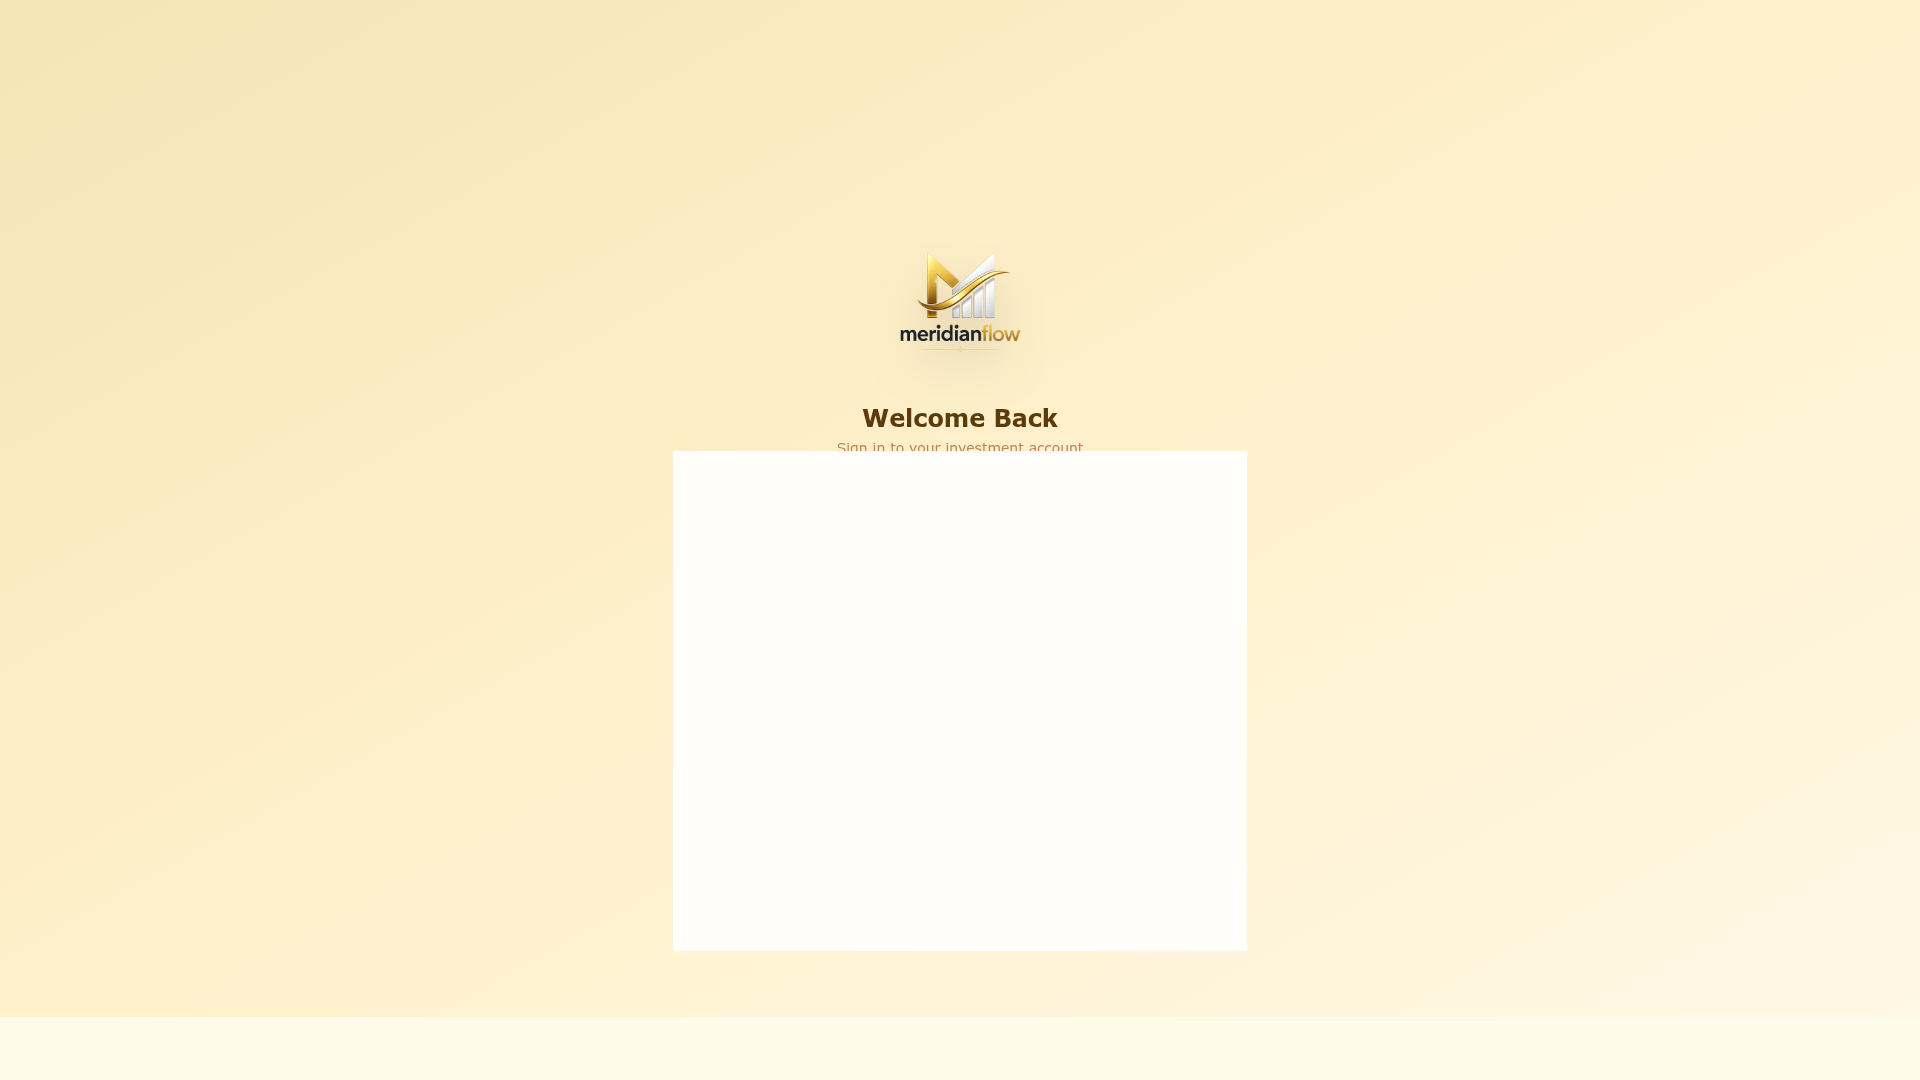
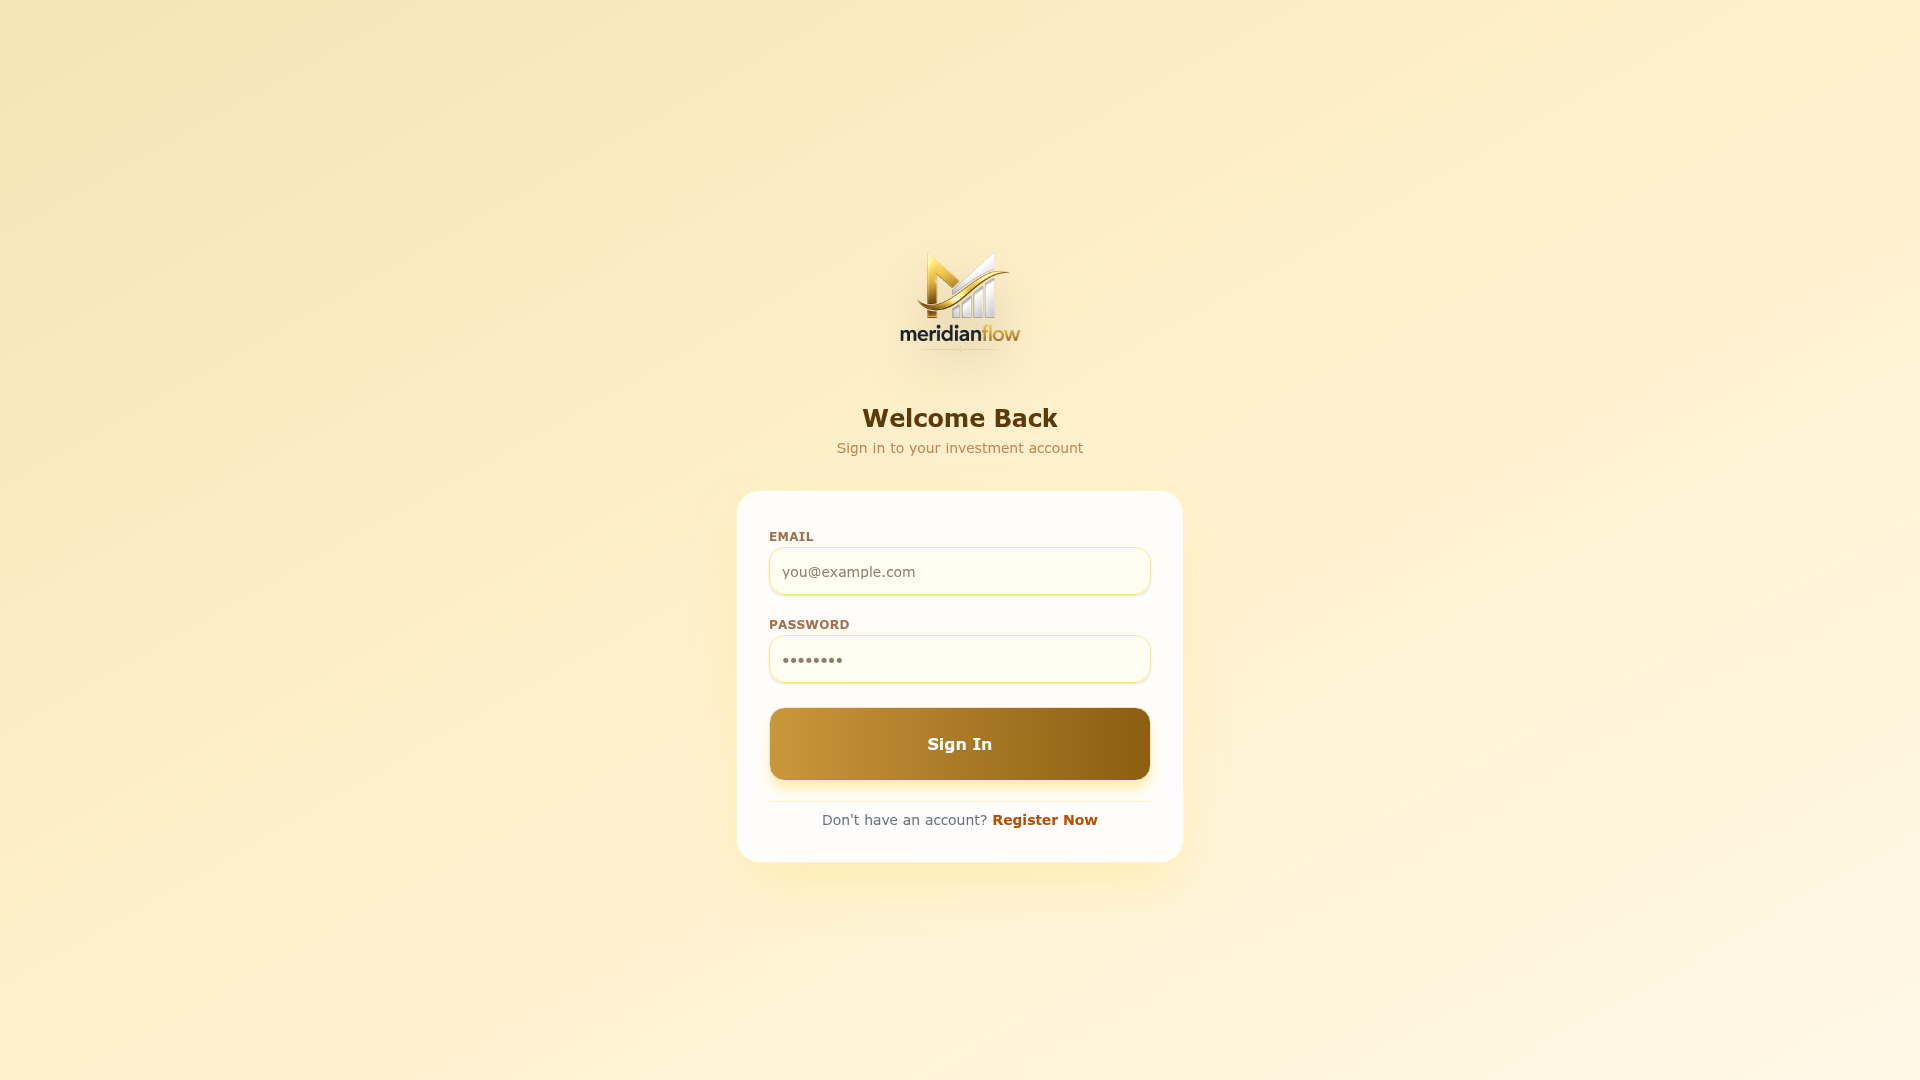
Improve app updates by automatically reloading the page
Update service worker cache version and implement an automatic page reload mechanism when a new service worker takes control, ensuring users always see the latest version of the application immediately after deployment.

Replit-Commit-Author: Agent
Replit-Commit-Session-Id: f0028072-8cfa-4f21-8683-c7674f239953
Replit-Commit-Checkpoint-Type: full_checkpoint
Replit-Commit-Event-Id: f8afba0d-e416-4b38-a0f8-273a1f99b805
Replit-Commit-Screenshot-Url: https://storage.googleapis.com/screenshot-production-us-central1/a301f715-6f6a-4669-9265-b7e4bc784b47/f0028072-8cfa-4f21-8683-c7674f239953/q0xI2KC
Replit-Helium-Checkpoint-Created: true

Changed region(s): [[0.3438, 0.3972, 0.6562, 0.8861], [0.0, 0.9167, 0.3125, 1.0]]

diff --git a/artifacts/real-estate-app/src/main.tsx b/artifacts/real-estate-app/src/main.tsx
@@ -4,11 +4,30 @@ import "./index.css";
 
 createRoot(document.getElementById("root")!).render(<App />);
 
-// Register service worker for PWA installability + offline shell caching
+// Register service worker for PWA installability + offline shell caching.
+// When a new SW takes control (after a deploy), reload the page once so the
+// user always sees the latest version without manually clearing cache.
 if ("serviceWorker" in navigator) {
   window.addEventListener("load", () => {
     navigator.serviceWorker
       .register("/sw.js", { scope: "/" })
+      .then((reg) => {
+        reg.addEventListener("updatefound", () => {
+          const newWorker = reg.installing;
+          if (!newWorker) return;
+          newWorker.addEventListener("statechange", () => {
+            if (newWorker.state === "activated" && navigator.serviceWorker.controller) {
+              // A new SW just took over — reload to serve fresh files
+              window.location.reload();
+            }
+          });
+        });
+      })
       .catch(() => {/* SW registration is best-effort */});
+
+    // Also reload if control shifts to a new SW while the page is open
+    navigator.serviceWorker.addEventListener("controllerchange", () => {
+      window.location.reload();
+    });
   });
 }

diff --git a/artifacts/real-estate-app/public/sw.js b/artifacts/real-estate-app/public/sw.js
@@ -1,4 +1,4 @@
-const CACHE = "meridianflow-v3";
+const CACHE = "meridianflow-v4";
 
 const STATIC_ICONS = [
   "/icons/icon-192.png",